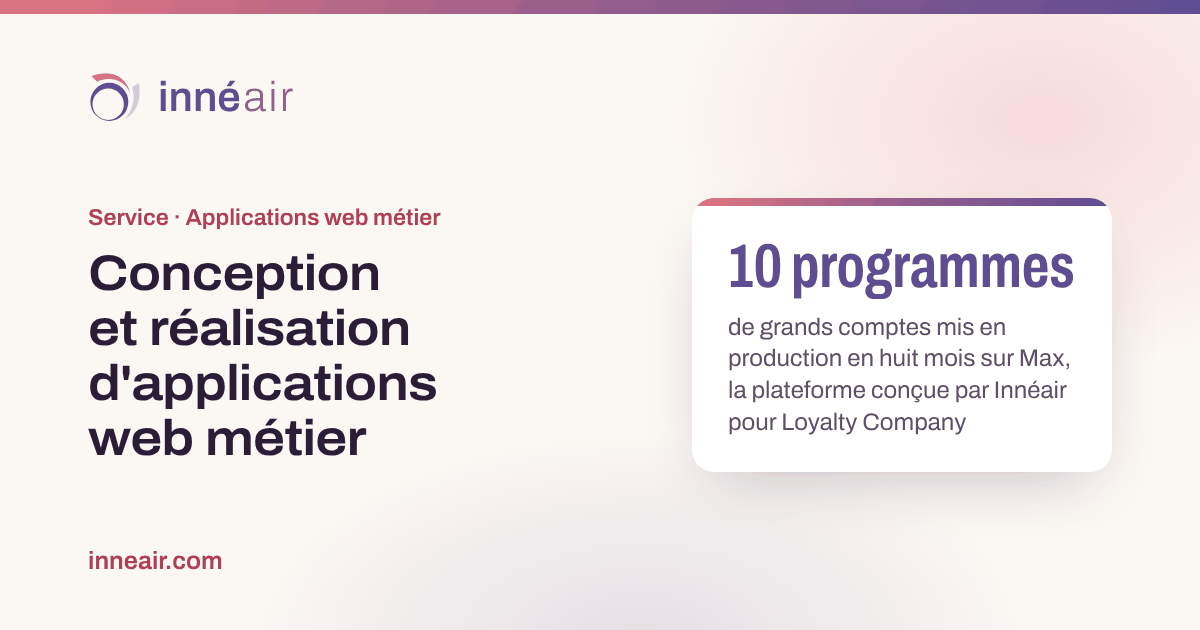
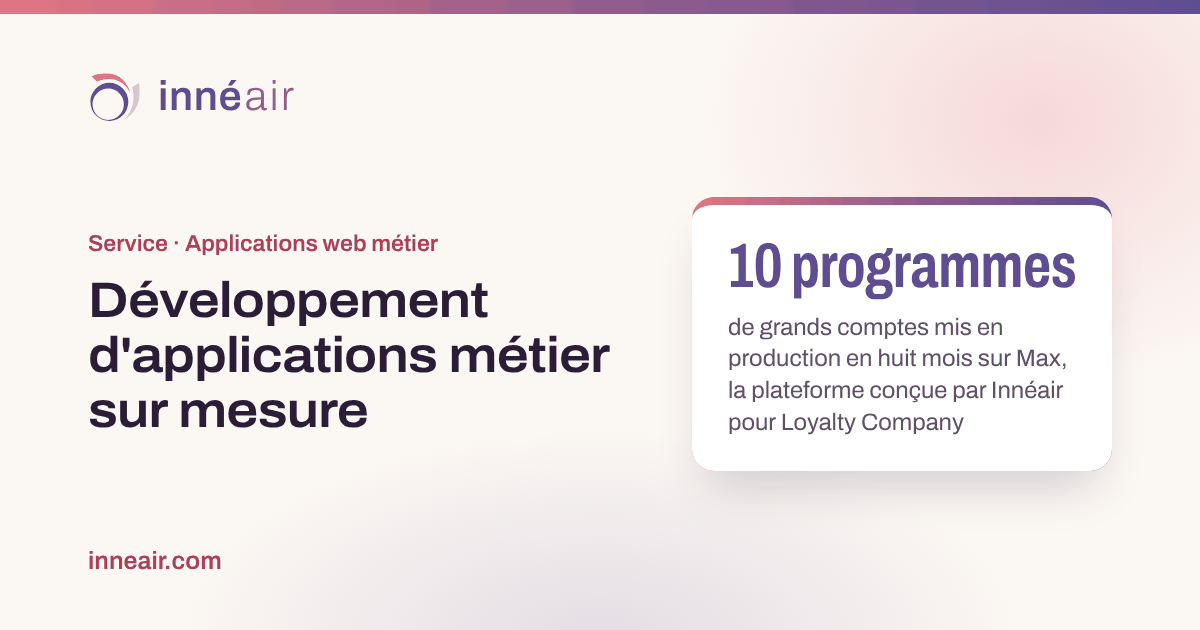
feat: update the takeover and design preview images to the new titles
The images shown when the two service pages are shared still carried the
former titles. They now read "Reprise, audit de code et maintenance (TMA)
d'applications web" and "Développement d'applications métier sur mesure",
in the same layout, with the same result cards, and their alternative
texts follow.

Claude-Session: https://claude.ai/code/session_01AzLCSTgqfseGqDv51FefHh

diff --git a/services/conception-application-metier.html b/services/conception-application-metier.html
@@ -15,7 +15,7 @@
 	<meta property="og:image" content="https://inneair.com/images/og/conception-application-metier.png">
 	<meta property="og:image:width" content="1200">
 	<meta property="og:image:height" content="630">
-	<meta property="og:image:alt" content="Conception et réalisation d'applications web métier : 10 programmes de grands comptes mis en production en huit mois sur Max, pour Loyalty Company">
+	<meta property="og:image:alt" content="Développement d'applications métier sur mesure : 10 programmes de grands comptes mis en production en huit mois sur Max, pour Loyalty Company">
 	<meta name="twitter:card" content="summary_large_image">
 	<link rel="preload" href="/assets/fonts/archivo-latin.woff2" as="font" type="font/woff2" crossorigin>
 	<link rel="stylesheet" href="/assets/css/main.css">

diff --git a/services/reprise-application-web.html b/services/reprise-application-web.html
@@ -15,7 +15,7 @@
 	<meta property="og:image" content="https://inneair.com/images/og/reprise-application-web.png">
 	<meta property="og:image:width" content="1200">
 	<meta property="og:image:height" content="630">
-	<meta property="og:image:alt" content="Reprise et fiabilisation d'applications web : 0 bogue remonté par le Product Owner sur le moteur d'alertes de Somfy depuis sa refonte">
+	<meta property="og:image:alt" content="Reprise, audit de code et maintenance (TMA) d'applications web : 0 bogue remonté par le Product Owner sur le moteur d'alertes de Somfy depuis sa refonte">
 	<meta name="twitter:card" content="summary_large_image">
 	<link rel="preload" href="/assets/fonts/archivo-latin.woff2" as="font" type="font/woff2" crossorigin>
 	<link rel="stylesheet" href="/assets/css/main.css">
